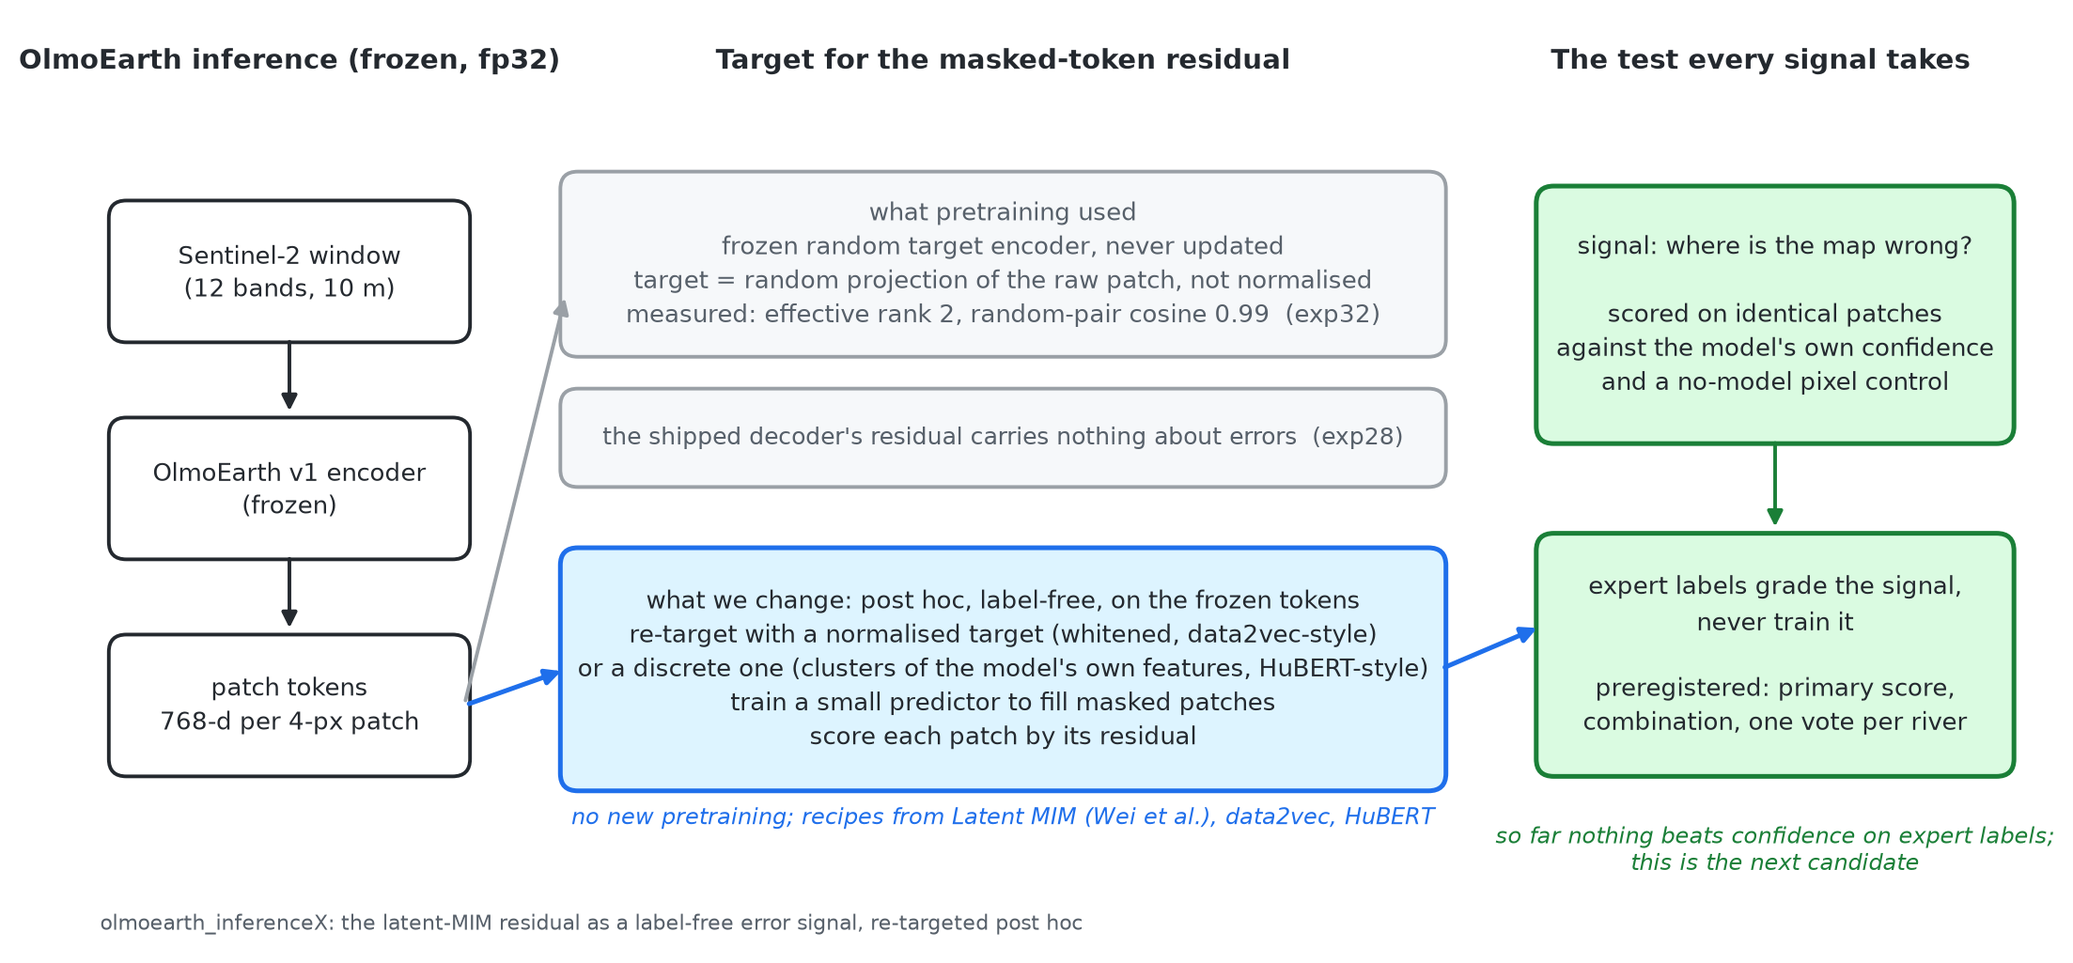
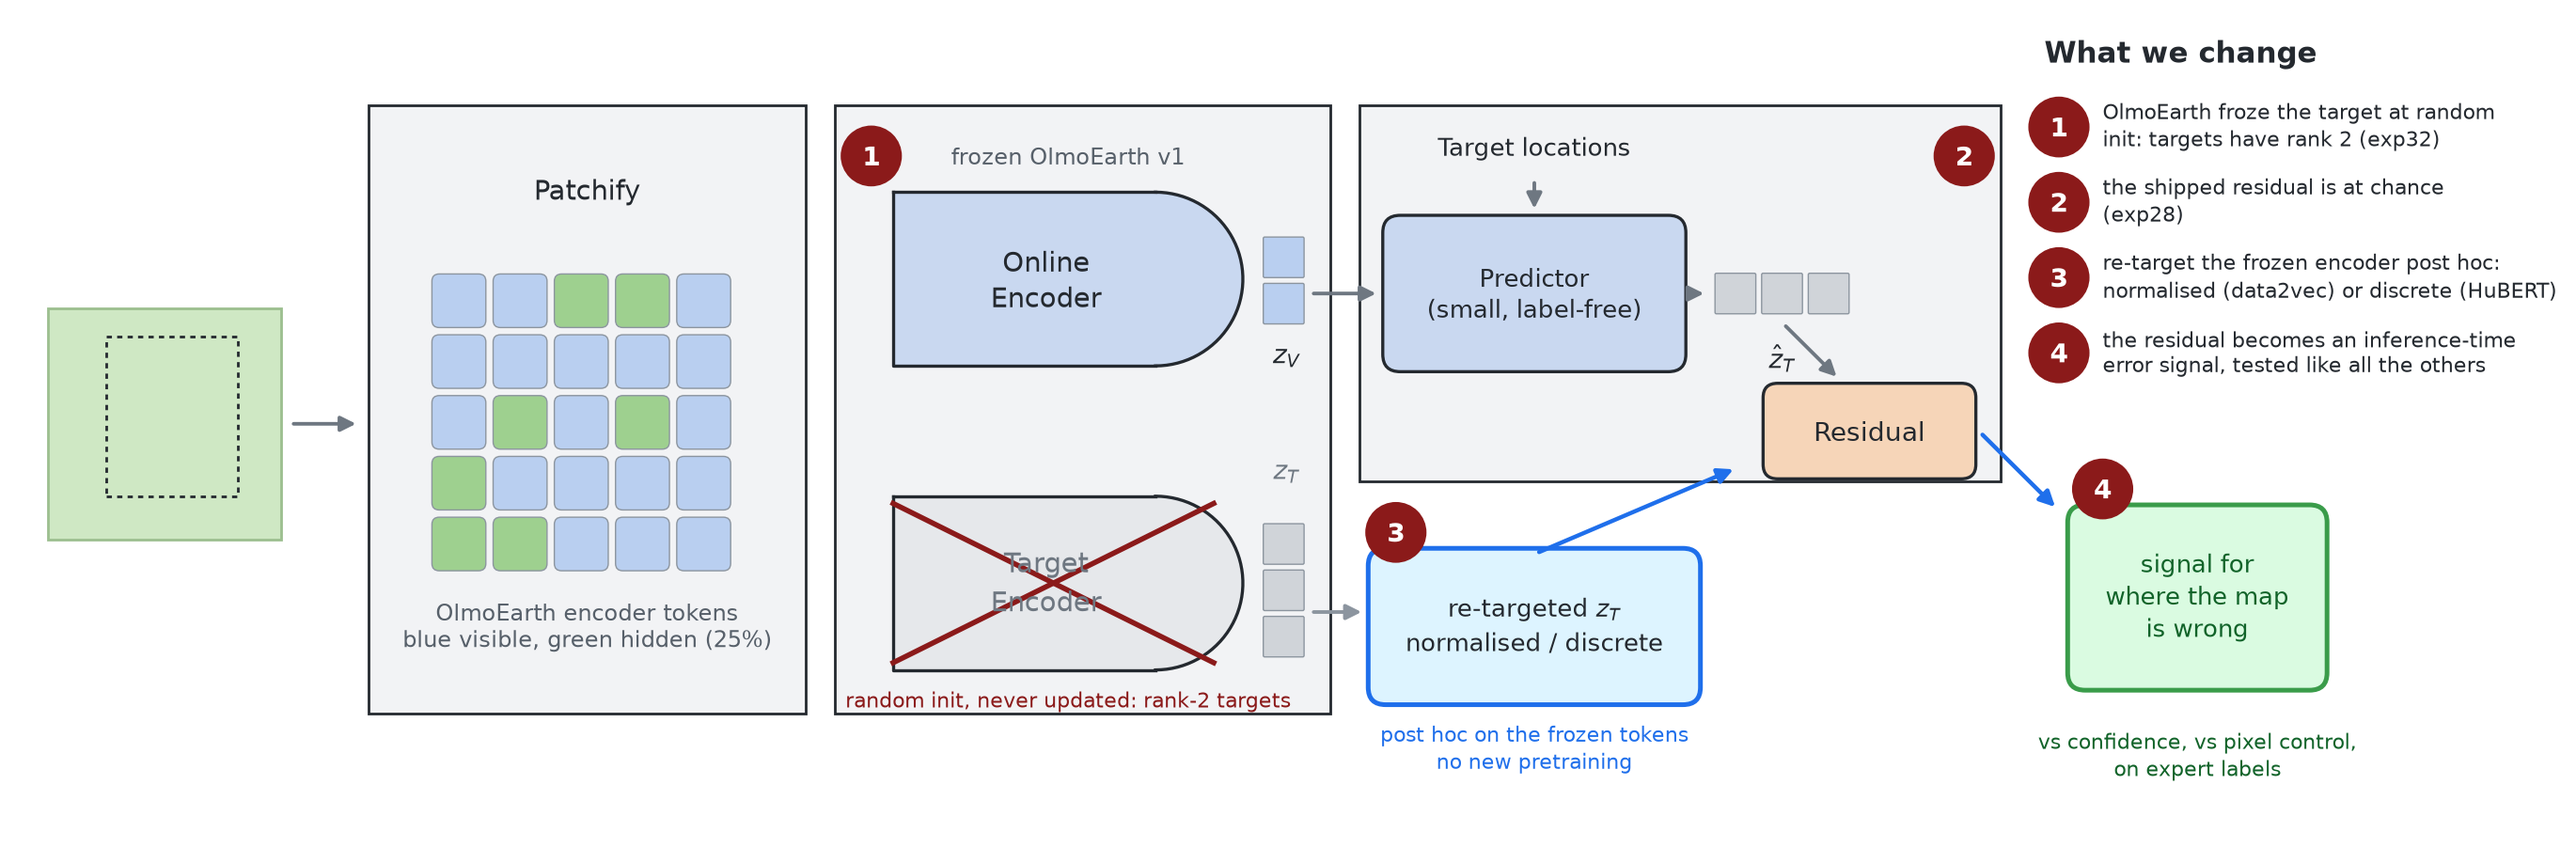
docs: redraw the re-targeting idea figure in Latent MIM's figure grammar, few words, numbered callouts

diff --git a/docs/figures/latent_mim_retarget_idea.py b/docs/figures/latent_mim_retarget_idea.py
@@ -1,47 +1,116 @@
-"""Renders docs/figures/latent_mim_retarget_idea.png: the latent-MIM residual as a label-free error signal, re-targeted
-post hoc on the frozen encoder (issues #10 and #11), and the test every signal takes. Numbers cite exp32 and exp28."""
+"""Renders docs/figures/latent_mim_retarget_idea.png in the visual grammar of Latent MIM's Figure 1 (Wei et al.,
+arXiv:2407.15837): patchify, online / target encoders, decoder, loss, numbered callouts. Redrawn, not copied. The
+content is ours: OlmoEarth's frozen random target (exp32), the shipped residual (exp28), the post-hoc re-targeting
+(issue #10) and the test every signal takes."""
 import matplotlib
 matplotlib.use("Agg")
+import numpy as np  # noqa: E402
 import matplotlib.pyplot as plt  # noqa: E402
-from matplotlib.patches import FancyArrowPatch, FancyBboxPatch  # noqa: E402
+from matplotlib.patches import Circle, FancyArrowPatch, FancyBboxPatch, Rectangle, Wedge  # noqa: E402
 
-fig, ax = plt.subplots(figsize=(13.5, 6.4), dpi=200)
-ax.set_xlim(0, 135); ax.set_ylim(0, 64); ax.axis("off")
-GREY, BLUE, GREEN, INK, MUTED = "#9aa0a6", "#1f6feb", "#1a7f37", "#24292f", "#57606a"
-
-
-def box(x, y, w, h, text, ec=INK, fc="white", fs=9.3, color=INK, lw=1.4):
-    ax.add_patch(FancyBboxPatch((x, y), w, h, boxstyle="round,pad=0.4,rounding_size=1.2", ec=ec, fc=fc, lw=lw))
-    ax.text(x + w / 2, y + h / 2, text, ha="center", va="center", fontsize=fs, color=color, linespacing=1.4)
+fig, ax = plt.subplots(figsize=(16, 5.6), dpi=200)
+ax.set_xlim(0, 160); ax.set_ylim(0, 56); ax.axis("off")
+INK, GREY, BLUE, GREEN, RED, ORANGE, LBLUE = "#24292f", "#8c959f", "#1f6feb", "#3a9c4a", "#8b1a1a", "#f6d5b8", "#c9d8f0"
+PANEL = "#f2f3f5"
 
 
-def arrow(x0, y0, x1, y1, color=INK, lw=1.4):
+def text(x, y, t, fs=10, color=INK, weight="normal", ha="center"):
+    ax.text(x, y, t, ha=ha, va="center", fontsize=fs, color=color, weight=weight, linespacing=1.3)
+
+
+def arrow(x0, y0, x1, y1, color="#6e7781", lw=1.4):
     ax.add_patch(FancyArrowPatch((x0, y0), (x1, y1), arrowstyle="-|>", mutation_scale=12, color=color, lw=lw))
 
 
-for x, t in ((14, "OlmoEarth inference (frozen, fp32)"), (63, "Target for the masked-token residual"), (115, "The test every signal takes")):
-    ax.text(x, 61, t, ha="center", va="center", fontsize=10.5, weight="bold", color=INK)
-box(2, 42, 24, 9, "Sentinel-2 window\n(12 bands, 10 m)")
-arrow(14, 42, 14, 36.5)
-box(2, 27, 24, 9, "OlmoEarth v1 encoder\n(frozen)")
-arrow(14, 27, 14, 21.5)
-box(2, 12, 24, 9, "patch tokens\n768-d per 4-px patch")
-box(33, 41, 60, 12, "what pretraining used\nfrozen random target encoder, never updated\n"
-    "target = random projection of the raw patch, not normalised\n"
-    "measured: effective rank 2, random-pair cosine 0.99  (exp32)", ec=GREY, fc="#f6f8fa", color=MUTED)
-box(33, 32, 60, 6, "the shipped decoder's residual carries nothing about errors  (exp28)", ec=GREY, fc="#f6f8fa", color=MUTED, fs=9)
-box(33, 11, 60, 16, "what we change: post hoc, label-free, on the frozen tokens\n"
-    "re-target with a normalised target (whitened, data2vec-style)\n"
-    "or a discrete one (clusters of the model's own features, HuBERT-style)\n"
-    "train a small predictor to fill masked patches\n"
-    "score each patch by its residual", ec=BLUE, fc="#ddf4ff", color=INK, lw=1.8)
-ax.text(63, 8.3, "no new pretraining; recipes from Latent MIM (Wei et al.), data2vec, HuBERT", ha="center", fontsize=8.5, color=BLUE, style="italic")
-arrow(26, 16.5, 33, 19, color=BLUE, lw=1.8)
-arrow(26, 16.5, 33, 45, color=GREY)
-box(100, 35, 32, 17, "signal: where is the map wrong?\n\nscored on identical patches\nagainst the model's own confidence\nand a no-model pixel control", ec=GREEN, fc="#dafbe1", lw=1.8)
-box(100, 12, 32, 16, "expert labels grade the signal,\nnever train it\n\npreregistered: primary score,\ncombination, one vote per river", ec=GREEN, fc="#dafbe1", lw=1.8)
-arrow(93, 19, 100, 22, color=BLUE, lw=1.8)
-arrow(116, 35, 116, 28.5, color=GREEN)
-ax.text(116, 8.3, "so far nothing beats confidence on expert labels;\nthis is the next candidate", ha="center", va="top", fontsize=8.5, color=GREEN, style="italic")
-ax.text(1, 1.0, "olmoearth_inferenceX: the latent-MIM residual as a label-free error signal, re-targeted post hoc", fontsize=8, color=MUTED)
+def encoder(x, y, w, h, t, fc=LBLUE, ec=INK, color=INK, alpha=1.0):
+    """The D-shaped encoder block of the Latent MIM figure."""
+    ax.add_patch(Rectangle((x, y), w - h / 2, h, fc=fc, ec="none", alpha=alpha))
+    ax.add_patch(Wedge((x + w - h / 2, y + h / 2), h / 2, -90, 90, fc=fc, ec="none", alpha=alpha))
+    ax.plot([x, x, x + w - h / 2], [y + h, y, y], color=ec, lw=1.2, alpha=alpha)
+    ax.plot([x, x + w - h / 2], [y + h, y + h], color=ec, lw=1.2, alpha=alpha)
+    th = np.linspace(-np.pi / 2, np.pi / 2, 50)
+    ax.plot(x + w - h / 2 + h / 2 * np.cos(th), y + h / 2 + h / 2 * np.sin(th), color=ec, lw=1.2, alpha=alpha)
+    text(x + (w - h / 2) / 2 + 1.5, y + h / 2, t, fs=10.5, color=color)
+
+
+def callout(x, y, k):
+    ax.add_patch(Circle((x, y), 2.1, fc=RED, ec="none"))
+    text(x, y, str(k), fs=10, color="white", weight="bold")
+
+
+def panel(x, y, w, h):
+    ax.add_patch(Rectangle((x, y), w, h, fc=PANEL, ec=INK, lw=1.0))
+
+
+# ------------------------------------------------------------------ scene and patchify
+ax.add_patch(Rectangle((2, 20), 16, 16, fc="#cfe8c4", ec="#9cbf8f", lw=1))
+ax.add_patch(Rectangle((6, 23), 9, 11, fill=False, ec=INK, lw=1, ls=(0, (2, 2))))
+arrow(18.5, 28, 23.5, 28)
+panel(24, 8, 30, 42)
+text(39, 44, "Patchify", fs=10.5)
+rng = np.random.default_rng(0)
+hidden = rng.random((5, 5)) < 0.25
+for i in range(5):
+    for j in range(5):
+        ax.add_patch(FancyBboxPatch((28.5 + j * 4.2, 18 + (4 - i) * 4.2), 3.4, 3.4, boxstyle="round,pad=0.15,rounding_size=0.5",
+                                    fc=("#9ed08f" if hidden[i, j] else "#b9cff0"), ec="#8c959f", lw=0.5))
+text(39, 14, "OlmoEarth encoder tokens\nblue visible, green hidden (25%)", fs=8.5, color="#57606a")
+
+# ------------------------------------------------------------------ encoders
+panel(56, 8, 34, 42)
+encoder(60, 32, 24, 12, "Online\nEncoder")
+text(72, 46.5, "frozen OlmoEarth v1", fs=8.5, color="#57606a")
+for k in range(2):
+    ax.add_patch(FancyBboxPatch((85.5, 35 + k * 3.2), 2.6, 2.6, boxstyle="round,pad=0.1", fc="#b9cff0", ec="#8c959f", lw=0.5))
+text(87, 32.5, r"$z_V$", fs=10)
+encoder(60, 11, 24, 12, "Target\nEncoder", fc="#e6e8eb", color="#6e7781", alpha=1.0)
+ax.plot([60, 82], [11.5, 22.5], color=RED, lw=2); ax.plot([60, 82], [22.5, 11.5], color=RED, lw=2)
+text(72, 8.8, "random init, never updated: rank-2 targets", fs=8, color=RED)
+callout(58.5, 46.5, 1)
+for k in range(3):
+    ax.add_patch(FancyBboxPatch((85.5, 12 + k * 3.2), 2.6, 2.6, boxstyle="round,pad=0.1", fc="#d0d4d9", ec="#8c959f", lw=0.5))
+text(87, 24.5, r"$z_T$", fs=10, color="#6e7781")
+
+# ------------------------------------------------------------------ our target, replacing z_T
+ax.add_patch(FancyBboxPatch((93, 9), 22, 10, boxstyle="round,pad=0.4,rounding_size=1.2", fc="#ddf4ff", ec=BLUE, lw=1.8))
+text(104, 14, "re-targeted $z_T$\nnormalised / discrete", fs=9.5, color=INK)
+arrow(88.5, 15, 92.5, 15, color=GREY)
+callout(94.5, 20.5, 3)
+text(104, 5.5, "post hoc on the frozen tokens\nno new pretraining", fs=8, color=BLUE)
+
+# ------------------------------------------------------------------ decoder and residual
+panel(92, 24, 44, 26)
+text(104, 47, "Target locations", fs=9.5)
+arrow(104, 45, 104, 42.5)
+ax.add_patch(FancyBboxPatch((94, 32), 20, 10, boxstyle="round,pad=0.4,rounding_size=1.2", fc=LBLUE, ec=INK, lw=1.2))
+text(104, 37, "Predictor\n(small, label-free)", fs=9.5)
+arrow(88.5, 37, 93.5, 37)
+for k in range(3):
+    ax.add_patch(FancyBboxPatch((116.5 + k * 3.2, 35.7), 2.6, 2.6, boxstyle="round,pad=0.1", fc="#d0d4d9", ec="#8c959f", lw=0.5))
+text(121, 32.5, r"$\hat{z}_T$", fs=10)
+arrow(114.5, 37, 116, 37)
+ax.add_patch(FancyBboxPatch((120, 24.5), 14, 6, boxstyle="round,pad=0.3,rounding_size=1", fc=ORANGE, ec=INK, lw=1.2))
+text(127, 27.5, "Residual", fs=10)
+arrow(121, 35, 125, 31, color="#6e7781")
+arrow(104, 19, 118, 25, color=BLUE, lw=1.6)
+callout(133.5, 46.5, 2)
+
+# ------------------------------------------------------------------ the test, to the right of the residual
+arrow(134.5, 27.5, 140, 22, color=BLUE, lw=1.6)
+ax.add_patch(FancyBboxPatch((141, 10), 17, 12, boxstyle="round,pad=0.4,rounding_size=1.2", fc="#dafbe1", ec=GREEN, lw=1.8))
+text(149.5, 16, "signal for\nwhere the map\nis wrong", fs=9.5, color="#116329")
+callout(143, 23.5, 4)
+text(149.5, 5, "vs confidence, vs pixel control,\non expert labels", fs=8, color="#116329")
+
+# ------------------------------------------------------------------ callout list
+X = 139
+text(X, 53.5, "What we change", fs=11, weight="bold", ha="left")
+items = [(1, "OlmoEarth froze the target at random\ninit: targets have rank 2 (exp32)"),
+         (2, "the shipped residual is at chance\n(exp28)"),
+         (3, "re-target the frozen encoder post hoc:\nnormalised (data2vec) or discrete (HuBERT)"),
+         (4, "the residual becomes an inference-time\nerror signal, tested like all the others")]
+for i, (k, t) in enumerate(items):
+    y = 48.5 - i * 5.2
+    callout(X + 1, y, k)
+    text(X + 4, y, t, fs=8, ha="left")
 fig.savefig("docs/figures/latent_mim_retarget_idea.png", bbox_inches="tight", facecolor="white")
